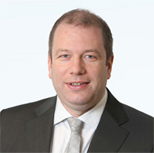
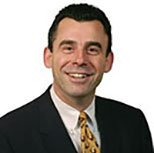
Updated staff, resources, calendar

diff --git a/_includes/principles.html b/_includes/principles.html
@@ -1,5 +1,5 @@
 <!-- Benefits Section -->
-    <section id="principles">
+    <section id="principles" class="bg-light-gray">
         <div class="container">
             <div class="row">
                 <div class="col-sm-12 text-center">
@@ -10,18 +10,17 @@
                 <div class="col-sm-4">
                     <img src="{{ "/img/benefits/benefits-communication.png" | prepend: site.baseurl }}">
                     <h4 class="benefits-heading">Parent-Teacher communication</h4>
-                    <p class="text-muted">Schoolbag creates a daily link between school and the parent/guardian, thus ensuring that parents know where to support their children on a nightly basis.
-</p>
+                    <p class="text-muted">parents are viewed as a positive resource for the school. Parental involvement is welcomed and encouraged, where appropriate. The professional role of the teacher is validated at all times.</p>
                 </div>
                 <div class="col-sm-4">
                     <img src="{{ "/img/benefits/benefits-organisation.png" | prepend: site.baseurl }}">
-                    <h4 class="benefits-heading">Student organisation</h4>
-                    <p class="text-muted">Students are kept up to date on their homework requirements even if they are absent from class and can access all of their class notes and worksheets anywhere, anytime.</p>
+                    <h4 class="benefits-heading">Holistic education</h4>
+                    <p class="text-muted">students are taught in a holistic approach designed to nurture their natural abilities and guide them towards excellence and success in all of their endeavours.</p>
                 </div>
                 <div class="col-sm-4">
                     <img src="{{ "/img/benefits/benefits-homework.png" | prepend: site.baseurl }}">
-                    <h4 class="benefits-heading">Homework completion overview</h4>
-                    <p class="text-muted">Any teacher can view some basic overarching homework completion statistics for any student in their class, giving teachers a ‘bigger picture’ of homework completion.</p>
+                    <h4 class="benefits-heading">Child-centred</h4>
+                    <p class="text-muted">this applies not only to teaching and learning within the classroom but to all decisions at staff and management level, which must have the well-being of the children at their heart.</p>
                 </div>
             </div>
         </div>

diff --git a/_includes/staff.html b/_includes/staff.html
@@ -2,19 +2,47 @@
     <section id="staff">
         <div class="row">
             <div class="col-lg-12 text-center">
-                <h3 class="section-heading">Our Staff</h3>
+                <h2 class="section-heading">Our Staff</h2>
             </div>
         </div>
         <div class="row">
-            {% for member in site.people %}
-            <div class="col-sm-3">
+            <div class="col-sm-4 col-sm-offset-2">
                 <div class="team-member">
-                    <img src="img/team/{{ member.pic }}.jpg" class="img-responsive img-circle" alt="">
-                    <h4>{{ member.name }}</h4>
-                    <p class="text-muted">{{ member.position }}</p>
-                    <p class="text-muted">{{ member.about }}</p>
+                    <img src="img/team/1.jpg" class="img-responsive img-circle" alt="">
+                    <h4>Mr. Chris McLoughlin</h4>
+                    <p class="text-muted">Principal</p>
                 </div>
             </div>
-            {% endfor %}
+            <div class="col-sm-4">
+                <div class="team-member">
+                    <img src="img/team/2.jpg" class="img-responsive img-circle" alt="">
+                    <h4>Chris McLoughlin</h4>
+                    <p class="text-muted">Deputy Principal</p>
+                </div>
+            </div>
+        </div>
+        <div class="row">
+            <div class="container">
+                <div class="col-xs-12 col-sm-4">
+                    <h3>Teachers:</h3>
+                      <p>Ms. Geraldine McGee</p>
+                      <p>Mrs. Aine Curley</p>
+                      <p>Miss. Mary McGeady</p>
+                      <p>Mr. Cian McLoughpn</p>
+                      <p>Mr. Peter McNulty</p>
+                      <p>Ms. Mairead McConnell</p>
+                      <p>Ms. Liz McDaid</p>
+                  </div>
+                  <div class="col-xs-12 col-sm-4">
+                      <h3>School Secretary</h3>
+                      <p>Mrs. Ann Morrow</p>
+                  </div>
+                  <div class="col-xs-12 col-sm-4">
+                      <h3>School Caretaker</h3>
+                      <p>Mr. Lorcan Cotter</p>
+                  </div>
+                </div>
+            </div>
+
         </div>
     </section>

diff --git a/_includes/resources.html b/_includes/resources.html
@@ -8,22 +8,22 @@
             </div>
             <div class="row">
                 <div class="col-xs-6 col-sm-2">
-                    <img src="{{ "/img/resources/office-365.png" | prepend: site.baseurl }}" class="img-responsive">
+                    <img src="{{ "/img/resources/book-creator.png" | prepend: site.baseurl }}" class="img-responsive">
                 </div>
                 <div class="col-xs-6 col-sm-2 col-sm-4">
-                    <img src="{{ "/img/resources/onedrive.png" | prepend: site.baseurl }}" class="img-responsive">
+                    <img src="{{ "/img/resources/classtools.png" | prepend: site.baseurl }}" class="img-responsive">
                 </div>
                 <div class="col-xs-6 col-sm-2 col-sm-4">
-                    <img src="{{ "/img/resources/onenote.png" | prepend: site.baseurl }}" class="img-responsive">
+                    <img src="{{ "/img/resources/padlet.png" | prepend: site.baseurl }}" class="img-responsive">
                 </div>
                 <div class="col-xs-6 col-sm-2 col-sm-4">
-                    <img src="{{ "/img/resources/active-directory.png" | prepend: site.baseurl }}" class="img-responsive">
+                    <img src="{{ "/img/resources/powtoon.png" | prepend: site.baseurl }}" class="img-responsive">
                 </div>
                 <div class="col-xs-6 col-sm-2 col-sm-4">
-                    <img src="{{ "/img/resources/advanced-learning.png" | prepend: site.baseurl }}" class="img-responsive">
+                    <img src="{{ "/img/resources/scoilnet.png" | prepend: site.baseurl }}" class="img-responsive">
                 </div>
                 <div class="col-xs-6 col-sm-2 col-sm-4">
-                    <img src="{{ "/img/resources/vsware.png" | prepend: site.baseurl }}" class="img-responsive">
+                    <img src="{{ "/img/resources/quizlet.png" | prepend: site.baseurl }}" class="img-responsive">
                 </div>
             </div>
         </div>

diff --git a/_includes/calendar.html b/_includes/calendar.html
@@ -1,5 +1,5 @@
 <!-- How it works Section -->
-    <section id="calendar" class="bg-light-gray">
+    <section id="calendar">
         <div class="container">
             <div class="row">
                 <div class="col-lg-12 text-center">
@@ -7,11 +7,8 @@
                 </div>
             </div>
             <div class="row">
-                <div class="col-md-6 col-sm-8">
-                    <p class="text-muted">Parents often complain that they’re not aware of the homework that their children have been assigned in school. They want to help them, but they don’t know how.</p>
-                    <p class="text-muted">Schoolbag ensures that every night, parents know what homework has been assigned during each class period. As a result it significantly increases parental engagement with homework and allows them to support their children on an ongoing basis.</p>
-                    <p class="text-muted">Additionally, it cuts down the workload of teachers and reduces photocopying costs in schools by allowing all teachers to share their learning resources electronically.</p>
-                    <a href="howitworks/" class="btn btn-xl">See how it works</a>
+                <div class="col-xs-12">
+                    <iframe class="calendar" src="https://calendar.google.com/calendar/embed?src=learningdata.ie_8kt7q6bhitg3bb675ovlopu6j4%40group.calendar.google.com&ctz=Europe/Dublin" width="100%" height="500" frameborder="0" scrolling="no"></iframe>
                 </div>
             </div>
         </div>

diff --git a/_includes/about.html b/_includes/about.html
@@ -7,7 +7,7 @@
             </div>
         </div>
         <div class="row">
-            <div class="col-xs-12">
+            <div class="col-sm-8">
                 <p>Welcome to {{ site.title }}.  Our school is a happy, vibrant environment where children are enthused with a love of learning, where childhood is valued and where confidence, skills and knowledge are developed in our pupils to face the challenges of the 21st century.  We strive to develop our core values of respect, knowledge and responsibility in every facet of our pupil’s education.</p>
 
                 <p>In our teaching, we aim to ensure that pupils of all abilities have the opportunity to fulfil their learning potential.Teachers energetically and creatively strive to provide a holistic education by guiding, nurturing and encouraging students.</p>
@@ -15,6 +15,9 @@
                 <p>Our entire educational approach complements parents as they are their children’s primary and most influential educator.  Our teachers keep parents abreast of their children’s strengths, challenges, progress and goals. We invite you to look around our website to see for yourself!</p>
 
                 <a href="#" class="btn btn-primary">Notices</a>
+            </div>
+            <div class="about-photo hidden-xs">
+                <img src="{{ "/img/about-photo.jpg" | prepend: site.baseurl }}">
             </div>
         </div>
     </div>

diff --git a/_includes/header.html b/_includes/header.html
@@ -10,9 +10,9 @@
                 <span class="icon-bar"></span>
             </button>
             <a class="navbar-brand page-scroll" href="#page-top">
-                <img class="logo-light hidden-xs" src="{{ "/img/schoolbag-logo-light.png " | prepend: site.baseurl }}" alt="{{site.title}}">
-                <img class="logo-dark hidden-xs" src="{{ "/img/schoolbag-logo-dark.png " | prepend: site.baseurl }}" alt="{{site.title}}">
-                <img class="visible-xs-inline" src="{{ "/img/schoolbag-logo-mobile.png " | prepend: site.baseurl }}" alt="{{site.title}}">
+                <img class="logo-light hidden-xs" src="{{ "/img/st-pauls-light.png" | prepend: site.baseurl }}" alt="{{site.title}}">
+                <img class="logo-dark hidden-xs" src="{{ "/img/st-pauls-dark.png" | prepend: site.baseurl }}" alt="{{site.title}}">
+                <!-- <img class="visible-xs-inline" src="{{ "/img/st-pauls-ligth-mobile.png " | prepend: site.baseurl }}" alt="{{site.title}}"> -->
             </a>
             <a class="login-mobile visible-xs-inline" href="/schoolbag/login">Login</a>
         </div>

diff --git a/_includes/css/schoolbag.css b/_includes/css/schoolbag.css
@@ -384,16 +384,12 @@ section h2.section-heading {
     }
 }
 
-section#calendar {
-    position: relative;
-    overflow: hidden;
-}
-section#calendar p {
-    font-size: 16px;
-    margin-bottom: 20px;
-}
-section#calendar .btn {
-    margin-top: 40px;
+.calender {
+    display: block;       /* iframes are inline by default */
+    background: #000;
+    border: none;         /* Reset default border */
+    width: 100%;
+    height: 100%;
 }
 @media(min-width:768px) {
     section#principles img {
@@ -413,16 +409,25 @@ section#calendar .btn {
     #resources {
         padding: 70px 0 90px;
     }
-    #resources h2.section-heading {
-        margin-bottom: 40px;
-    }
-
 }
-
 
 section#about {
     position: relative;
     overflow: hidden;
+}
+.about-photo  {
+    display: block;
+    position: absolute;
+    width: 20%;
+    top: 260px;
+    right:-15%;
+    height: 250px;
+    height: 300px;
+}
+@media(min-width:768px) {
+    .about-photo  {
+        width: 50%;
+    }
 }
 section#staff {
     padding-bottom: 0;

diff --git a/_includes/home.html b/_includes/home.html
@@ -2,10 +2,10 @@
   <header>
       <div class="container">
           <div class="row">
-              <div class="col-md-6">
+              <div class="col-md-12">
                   <div class="intro-text text-left">
-                      <div class="intro-lead-in">Welcome to {{ site.title }}</div>
-                      <div class="intro-heading">{{ site.description }}</div>
+                      <div class="intro-heading">Welcome to <br>{{ site.title }}</div>
+                      <div class="intro-lead-in">{{ site.description }}</div>
                   </div>
               </div>
           </div>
